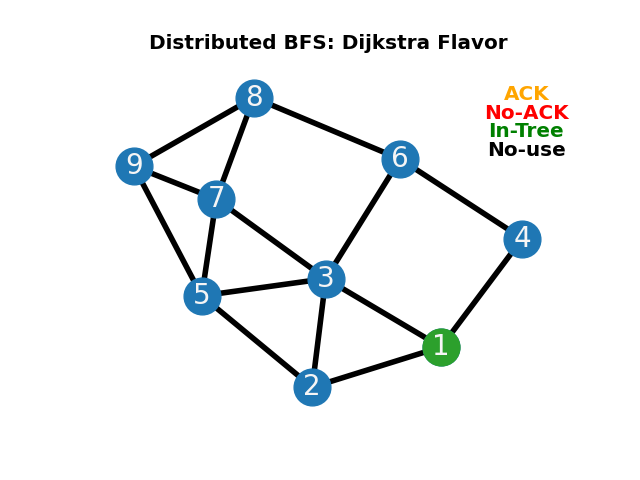
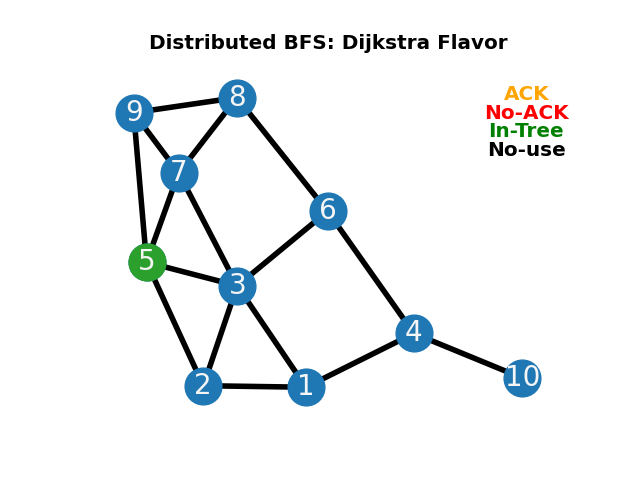
bugs fixed

diff --git a/utils.py b/utils.py
@@ -9,8 +9,6 @@ import os
 import globals
 
 
-ColorLegend = {'No used': 1,'ACK': 2, 'No-ACK': 4, 'Tree': 3}
-
 # dodac zmiane nazwy 
 def define_graph(nodes, edges):
     # undirected graph
@@ -59,8 +57,15 @@ def make_gif():
         fi = []
         for f in os.listdir(globals.DIRECTORY):
             fi.append(f)
-        for f in fi:
-            image = imageio.imread(globals.DIRECTORY + f)
+        fi_2 = []
+        for file in fi:
+            tmp = file.removesuffix(".png")
+            fi_2.append(tmp)
+        print(fi_2)
+        fi_2.sort(key=int)
+        print(fi_2)
+        for f in fi_2:
+            image = imageio.imread(globals.DIRECTORY + f +".png")
             writer.append_data(image)
     
 

diff --git a/main.py b/main.py
@@ -5,9 +5,9 @@ import globals
 #delete *.png 
 clear_folder(globals.DIRECTORY)
 
-nodes = [1, 2, 3, 4, 5, 6, 7, 8, 9]
-root_id = 1 # clear folder when changing root
-edges = [(1, 2), (1,3), (1,4), (2, 5), (3, 5), (5, 7), (3, 7), (4, 6), (3,6), (2,3), (7,8), (7,9), (5,9), (8,9), (8,6)]
+nodes = [1, 2, 3, 4, 5, 6, 7, 8, 9, 10]
+root_id = 5 # clear folder when changing root
+edges = [(1, 2), (1,3), (1,4), (2, 5), (3, 5), (5, 7), (3, 7), (4, 6), (3,6), (2,3), (7,8), (7,9), (5,9), (8,9), (8,6), (4,10)]
 
 G = define_graph(nodes=nodes, edges=edges)
 
